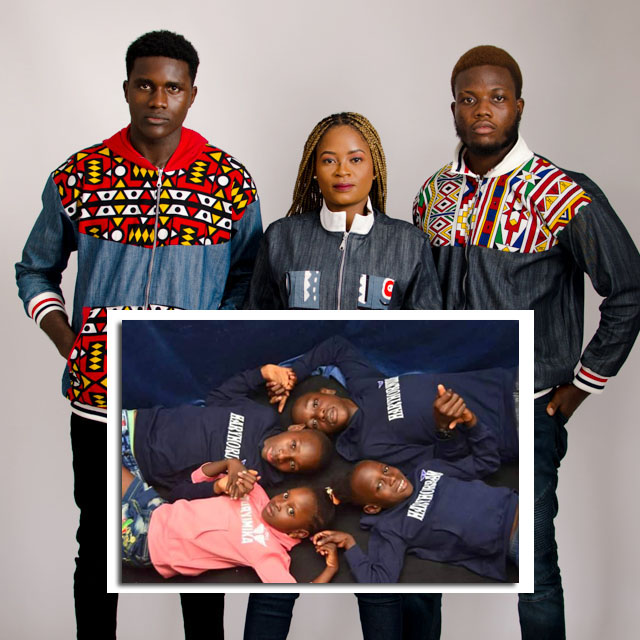
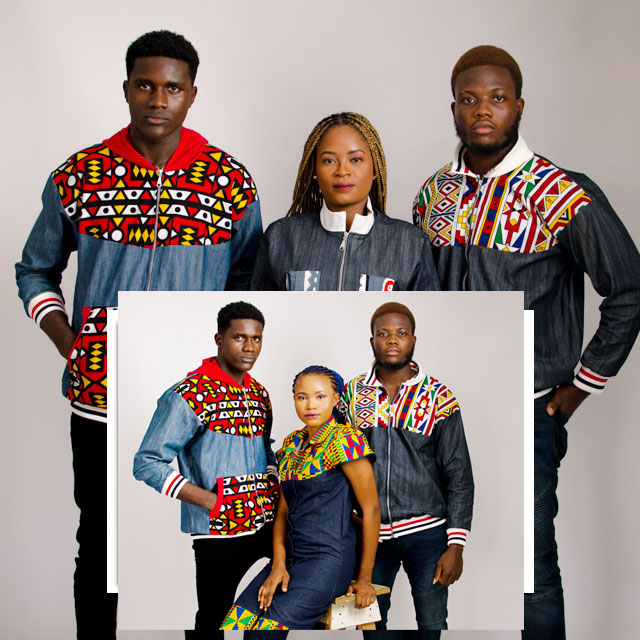
update

diff --git a/index.html b/index.html
@@ -134,7 +134,7 @@ global market space has kept the brand in  consistent motion to do more and this
 sp collection which is majorly targeted at meeting the clothing needs of the youths (these are people who constitute 
 a vast majority of Africa's population. X-sporta by Sp promotes African Pop culture and we know that that culture is 
 taking over the world with our entertainment industry blazing the trail. Clothing is closely knitted with entertainment
-as since one has grown the other must follow.</p>
+and since one has grown the other must follow.</p>
 				</div>
 				<div class="col-lg-6 px-sm-0 img-div">
 					<img src="images/ab1.jpg" alt="" class="img-fluid" />
@@ -147,17 +147,16 @@ as since one has grown the other must follow.</p>
 				<div class="col-lg-6 about-padding">
 					<h4 class="mt-lg-5">Discover Fashion Stitches</h4>
 					<p class="mt-3">Have you ever wondered what" Signatureprofile "really means?
-Does it not sound tautological ?
+Does it not sound tautological ?<br />
 The name is a deliberate emphasis on the motive.<br />
-
-Signature: distinctive characteristic indicative of  identity.
-Profile: Character; totality of related characteristics; signature.
+Signature: distinctive characteristic indicative of  identity.<br />
+Profile:Character; totality of related characteristics;signature.<br />
 The emphasis is on the fact that our work is extremely loud and announces itself even in a crowd.<br />
 
-Signature profile has at the moment 4 sub divisions i.e collections. They are premium, classic, X-sporta and Jean Afrique.
-Premium is into production of high end KAFTANS, bubus and other native wears.
-Classic produces the day to day African tradional clothes commonly referred to as casuals.
-X-sporta deals with production of sport wears, t-shirts, uniforms, including shirts, pants, overalls etc.
+Signature profile has at the moment 5 sub divisions i.e collections. They are Premium, Classic, X-sporta, Locus Sigili and Workmen Apparel.
+Premium is into production of high end KAFTANS, bubus and other native wears.<br />
+Classic produces the day to day African tradional clothes commonly referred to as casuals.<br />
+X-sporta deals with production of sport wears, t-shirts, uniforms, including shirts, pants, overalls etc.<br />
 Jean Afrique :, produces all manner of Jean clothing from Jean pants, jackets, shorts, dresses etc.
  However, what stands Jean Afrique is that everything done under the name has a touch of African- Ness.
 Signature profile is a Afro- centric, clothing line and we tell the African story proudly.</p>
@@ -349,7 +348,7 @@ Signature profile is a Afro- centric, clothing line and we tell the African stor
 	
 	<section class="gallery py-5" id="gallery">
 		<div class="container py-lg-5 py-3">
-            <h3 class="heading mb-4 text-center">Sigili</h3>
+            <h3 class="heading mb-4 text-center">Locus Sigili</h3>
 			<p class="text-center">Fashion Gallery</p>		
 			<div class="row news-grids text-center">
 				<div class="col-md-4 col-sm-6 gal-img">
